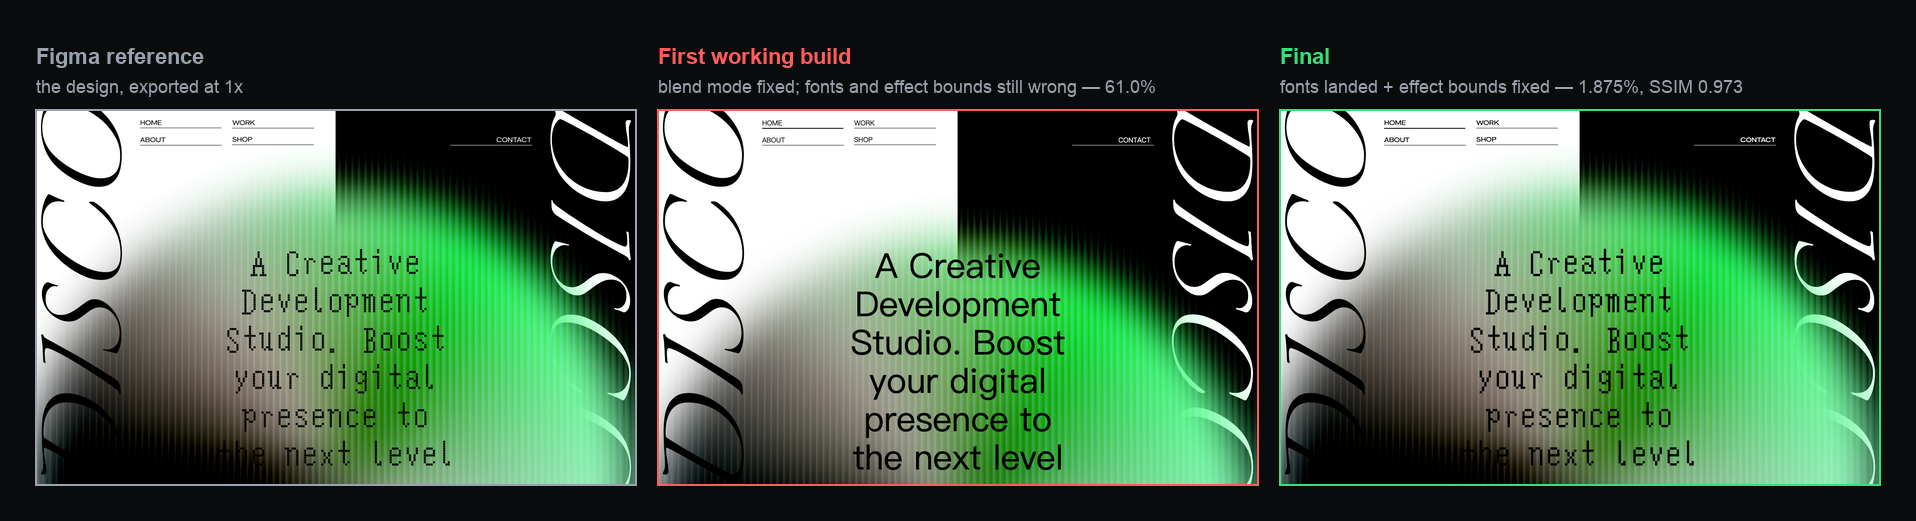
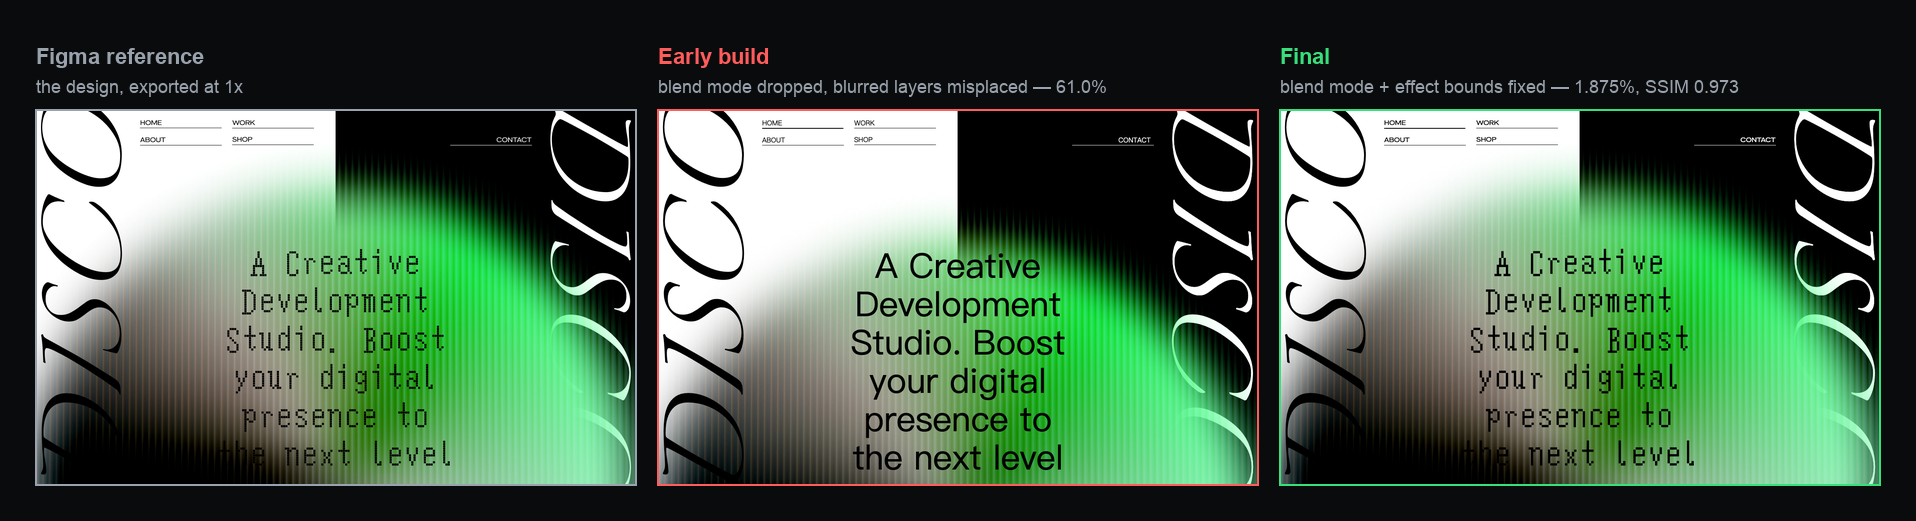
Rewrite README around the skill itself; drop the heatmap illustration
- lead with what the skill delivers, then how the pipeline and gates work
- compress the font matter into one contract line pointing at the reference
- remove docs/heatmap.png and its generator; relabel the comparison panels

Changed region(s): [[0.6467, 0.1536, 0.9238, 0.1843], [0.4003, 0.1536, 0.6159, 0.1843], [0.3387, 0.0921, 0.4619, 0.1228]]

diff --git a/docs/make_images.py b/docs/make_images.py
@@ -4,7 +4,6 @@
 Outputs into ./ (docs/):
   hero.png          — the finished 1440x900 render, framed
   comparison.png    — Figma reference vs 3 build rounds, labeled with real metrics
-  heatmap.png       — final residual heatmap + where the residual lives
   pipeline.png      — the Design Compiler pipeline with its hard gates
   gates.png         — A–G gate board for the sample artboard
 
@@ -95,24 +94,6 @@ def comparison(panels, out):
     return canvas.size
 
 
-def heatmap(src, out):
-    im = Image.open(src).convert("RGB")
-    w, h = im.size
-    pad, cap = 36, 96
-    canvas = Image.new("RGB", (w + pad * 2, h + pad * 2 + cap), BG)
-    d = ImageDraw.Draw(canvas)
-    canvas.paste(im, (pad, pad))
-    d.rectangle([pad - 1, pad - 1, pad + w, pad + h], outline=BORDER)
-    text(d, (pad, h + pad + 18), "Residual heatmap", 26, TEXT, bold=True)
-    text(d, (pad, h + pad + 50),
-         "1.875% of pixels differ by more than 20/255 — concentrated in sub-pixel stripe phase "
-         "and glyph antialiasing, not in structure.", 19, MUTED)
-    text(d, (pad, h + pad + 74), "No block-level displacement left after the effect-bounds fix.",
-         19, GREEN)
-    canvas.save(out)
-    return canvas.size
-
-
 def pipeline(out):
     stages = [
         ("extract", "live Figma → manifest + native PNG", BLUE),
@@ -192,12 +173,11 @@ def main():
     hero(root / "hero.png", HERE / "hero.png")
     comparison([
         (root / "ref.png", "Figma reference", "the design, exported at 1x", MUTED),
-        (root / "r2.png", "First working build",
-         "blend mode fixed; fonts and effect bounds still wrong — 61.0%", RED),
+        (root / "r2.png", "Early build",
+         "blend mode dropped, blurred layers misplaced — 61.0%", RED),
         (root / "r3.png", "Final",
-         "fonts landed + effect bounds fixed — 1.875%, SSIM 0.973", GREEN),
+         "blend mode + effect bounds fixed — 1.875%, SSIM 0.973", GREEN),
     ], HERE / "comparison.png")
-    heatmap(root / "heat.png", HERE / "heatmap.png")
     pipeline(HERE / "pipeline.png")
     gates([
         ("P0  data gate", "pass", "rootFills, per-run font sizes, render boxes, asset placement", GREEN),

diff --git a/README.md b/README.md
@@ -1,8 +1,8 @@
 # figma-native-html-reconstruction
 
-**A Skill that rebuilds Figma artboards as genuinely editable HTML — real DOM text, independent assets, fixed canvas coordinates, and a verification loop that refuses to call anything "close enough".**
+**A Skill that turns Figma artboards into genuinely editable HTML — real DOM text, independent assets, fixed canvas coordinates, and a verification loop that refuses to call anything "close enough".**
 
-**把 Figma 画板高保真重建为可编辑 HTML —— 真实 DOM 文字、独立非文字素材、固定画板坐标，配一套不肯用"看着差不多"蒙混过关的验收闭环。**
+**一个把 Figma 画板重建为可编辑 HTML 的 Skill：真实 DOM 文字、独立非文字素材、固定画板坐标，并配一套不肯用"看着差不多"蒙混过关的验收闭环。**
 
 ![status](https://img.shields.io/badge/skill-ready-38E07B?style=flat-square)
 ![figma](https://img.shields.io/badge/Figma-MCP%20%2F%20Figwright-6CAAFF?style=flat-square)
@@ -12,79 +12,71 @@
 
 ![Layout - 1 rebuilt as HTML](docs/hero.png)
 
----
+## What it does / 它做什么
 
-## Why this exists / 为什么做这个
+Point it at an artboard; get back a page you can actually maintain — text you can select and grep, layers you can inspect, numbers you can verify.
 
-Design-to-HTML tools usually give you one of two things: a picture of a page, or a page that only resembles the design at some other viewport. This Skill takes the third route — treat the artboard as **a coordinate system with layers, z-order and relationships**, then rebuild it as a fixed-size stage where every text node is a real, selectable, auditable DOM node.
+把 Skill 指向一个画板，得到的是一份真正能维护的页面：文字能选中、能搜索，图层能审，数字能被复核。
 
-设计稿转网页的工具通常只给两种结果：一张页面截图，或者一个"只在某个视口下看着像"的页面。这个 Skill 走第三条路——把画板当成**带图层、层级和关系的坐标系**，重建成固定尺寸的 stage，其中每个文字节点都是真实、可选中、可审计的 DOM。
-
-|  | Naive approach / 常见做法 | This Skill / 本 Skill |
+|  | Typical "design to code" output / 常见产出 | What this Skill delivers / 本 Skill 的产出 |
 |---|---|---|
-| Text | baked into the background image | real DOM text, per-run styles preserved |
-| Assets | one full-artboard screenshot | independent native exports, one per TEXT-free subtree |
-| Layout | responsive re-flow, "close enough" | fixed 1440×900 stage, absolute canvas coordinates |
-| Color | eyeballed | blend modes, fills, effects carried from the design data |
-| Fonts | falls back to a system font silently | **missing fonts get downloaded, verified and landed** |
-| Verdict | "looks right" | A–G machine-readable gates, `fail` / `unknown` ≠ `pass` |
+| Text | baked into the background image | real DOM nodes, per-run styles preserved |
+| Assets | one full-artboard screenshot | one native export per TEXT-free subtree |
+| Layout | responsive re-flow that "roughly matches" | fixed 1440×900 stage, absolute canvas coordinates |
+| Effects | eyeballed | blend modes, blurs, fills carried from design data |
+| Connectors | dropped or approximated | independent node SVGs, arrow tip measured |
+| Verdict | "looks close" | machine-readable A–G gates with three states |
 
-## Before / after / 修前修后
+## Three fixes, same code / 同一个页面，三次修因
 
 ![reference vs builds](docs/comparison.png)
 
-Left is the Figma export. Middle is the first build that actually rendered — the blend mode was dropped and two 124 px-blurred effects were placed by the wrong box, so the title fell back to a system font and the green gradient sat 124 px too low. Right is the same pipeline after three root-cause fixes.
+Left: the Figma export. Middle: an early build — the page rendered, but the composition was wrong. Right: the same pipeline after fixing root causes instead of nudging pixels. Each step was driven by a measured signal, not by staring at the screenshot.
 
-左图是 Figma 导出；中间是"能渲染但不正确"的第一版——混合模式丢失、两个带 124px 模糊的图层按错误盒放置，标题回退成系统字体、绿渐变整体下移 124px；右图是修完三处根因之后的同一套管线。
+左图 Figma 导出；中间是"能渲染但不对"的早期版本；右图是只修根因、不动像素之后的同一套管线产出。每一步都由可测量的信号驱动，不是对着截图挪元素。
 
-## The pipeline / 管线
+## How it works / 工作方式
 
 ![pipeline](docs/pipeline.png)
 
-`extract → normalize → plan → P0 data gate → build → verify → repair → re-verify`, all behind one command. Two rules make it trustworthy:
+One command runs the whole chain. Two design choices make the output trustworthy:
 
-- **The plan is the only source of layout.** `compile_design.py` turns the raw Figma export into `layout-plan.json` (with a `planHash`), and the HTML builder consumes nothing else. No agent ever nudges elements by looking at a screenshot.
-- **Nothing is built on missing data.** A P0 gate checks the manifest → IR → plan contract before a single line of HTML exists: root fills, per-run font sizes, render boxes, asset placement, effect-expanded bounds. It blocks the build instead of guessing.
+- **The plan is the only source of layout.** `compile_design.py` turns the raw Figma export into a deterministic `layout-plan.json` (with a content hash); the HTML builder consumes nothing else. No agent ever places an element by looking at a screenshot.
+- **Nothing builds on missing data.** Before any HTML is written, a data gate checks the contract: root fills, per-run font sizes, render boxes, asset placement, effect-expanded bounds. Missing or ambiguous data blocks the build instead of being silently defaulted.
 
-一条命令串起整条管线。两条原则让它可信：**plan 是唯一的排版依据**（Agent 从不对着截图挪元素）；**数据不全就不构建**（P0 数据门在生成 HTML 之前检查契约，宁可阻断也不猜）。
+一条命令跑完整条链。两个设计决定让结果可信：**plan 是唯一排版依据**（Agent 从不对着截图摆放元素）；**数据不全就不构建**（生成 HTML 之前先过数据门，缺失或含糊一律阻断，而不是悄悄用默认值填）。
 
-## Gates: pass, fail, unknown / 三门状态
+Under the hood the builder only emits `.layer` elements absolutely positioned inside a fixed `#stage`, carries each node's accumulated affine matrix, propagates effective clipping from ancestors, and preserves visible blend modes — which is what keeps composed effects looking like the design instead of like a flat export.
+
+底层上，构建器只输出固定 `#stage` 内绝对定位的 `.layer`，透传每个节点的累积仿射矩阵、沿祖先链传播有效裁剪、保留可见的混合模式——这是合成效果看起来仍是"设计"而不是"一张扁平导出"的原因。
+
+## Verification / 验收
 
 ![gate board](docs/gates.png)
 
-Every stage writes a machine-readable report into `evidence/`. A gate is `pass`, `fail`, or `unknown`, and **`unknown` is never a pass** — if the evidence wasn't collected, that is its own finding. Strict mode is the default: any `fail` or `unknown` exits non-zero and names the stage.
+Every stage writes a machine-readable report into `evidence/`. A gate is `pass`, `fail`, or `unknown` — and **`unknown` is never a pass**. If evidence wasn't collected, that is a finding of its own. Strict mode is the default: any `fail` or `unknown` exits non-zero and names the stage.
 
-每道门都把机读报告写进 `evidence/`；`unknown` 表示"证据没采到"，绝不等于通过。默认 strict：任一 `fail` / `unknown` 都非零退出并点名。
+每道门都把机读报告写进 `evidence/`；`unknown` 表示证据没采到，绝不等于通过。默认 strict：任一 `fail` / `unknown` 都非零退出并点名门。
 
-## The part people always get wrong: fonts / 最容易被糊弄过去的一环
+The gates cover content presence and coverage (B), relative geometry across every neighbour pair (C), real text line boxes and wrapping (D), arrow tips of connectors (E), canonical and overview visuals (F), and same-viewport pixel regression (G) — plus a data-contract gate before build (P0). The point is not the score, it's that any single local defect stays visible instead of being averaged away by a good global number.
 
-Missing fonts are **not** a disclosure item — they are a TODO. This Skill ships a font-sourcing procedure and a self-check script, because "I left an `@font-face` mount point, please supply the file yourself" is not a delivery.
+门覆盖内容可见性与覆盖（B）、全部相邻关系（C）、真实文字行盒与折行（D）、连接器箭头尖端（E）、canonical 与总览可见性（F）、同视口像素回归（G），以及构建前的数据契约门（P0）。重点不是分数，而是**任何一个局部缺陷都不会被好看的全局数字抹平**。
 
-- The requirement comes from **per-run** `fontName` (`fontName: 'mixed'` must be expanded — one line can use two families).
-- Scan the machine by name table (`nameID` 1 / 2 / 4 / 6), never by filename.
-- Search the web by exact **PostScript / filename** (`FZXS15--GB1-0.ttf`, `HKGroteskWide-Regular.otf`), then download from the site's **file link**, not its "download client" button.
-- Verify **before** landing: MD5 against the published value, name table, weight, `cmap` coverage.
-- Prove it loaded: `document.fonts.check()` plus `fontsVerified` / `fontsMissing` in the audit report — not just a `font-family` string.
+## Contracts / 硬约束
 
-缺字体是待办，不是可交付的结论。流程与自检脚本都随仓库提供：从 **per-run** 的 `fontName` 取真实需求（`mixed` 必须展开）、按 name 表扫本机、按确切文件名联网找、按 MD5 与 name 表校验后再落地、最后用 `document.fonts.check()` 证明它真的加载了。
+1. **Text stays text.** Nothing is baked into an image, ever.
+2. **Assets stay separate.** Native exports per TEXT-free subtree; never the whole artboard as the page.
+3. **The canvas stays fixed.** No responsive re-flow inside the artboard; scaling is display-only.
+4. **Never guess a color.** Unresolved image fills, unsupported fills and no-fill text are disclosed, not painted black or white.
+5. **Never fake a metric.** No shrinking type to kill overflow, no hiding layers, no rescaling the screenshot to match.
+6. **Missing fonts get resolved, not substituted.** The Skill ships a sourcing procedure and a self-check script (`references/font-sourcing.md`, `scripts/check_fonts.py`) so a real font is downloaded, verified and proven loaded — a `@font-face` stub is not a delivery.
+7. **One deterministic repair pass.** Text and connector failures get exactly one automatic fix attempt; if it still fails, it reports failure instead of scanning parameters in a loop.
 
-```bash
-python3 scripts/check_fonts.py \
-  --fonts-dir fonts --css fonts/fonts.css --html page.html \
-  --plan export/layout-plan.json --text-manifest export/text-manifest.json \
-  --glyphs "ABCabc0123"
-# exit 0 → every family+style is landed; exit 1 → go download it
-```
-
-Two silent failure modes are documented in the reference, because both were hit for real: a reuse path that skipped the build step (so the "re-verified" page was the old one, `@font-face` count 0), and a stale `layout-plan.json` that skipped recompilation (so an export fix never reached the plan).
-
-文档里还记了两个真实踩过的坑：复用导出目录时跳过 build，导致"复验"的是旧页面；以及 `layout-plan.json` 没删，导致改过的导出数据根本没进 plan。
-
-## Metrics from the included case / 附带的真实案例指标
+## Results from the included case / 附带案例的实测结果
 
 Same browser, same viewport, same reference, DPR 1, mismatch threshold 20/255.
 
-| Metric | First working build | Final |
+| Metric | Early build | Final |
 |---|---|---|
 | raw mismatch | 61.04% | **1.875%** |
 | outside-text mismatch | 56.53% | **0.0025%** |
@@ -92,35 +84,29 @@ Same browser, same viewport, same reference, DPR 1, mismatch threshold 20/255.
 | SSIM | 0.7962 | **0.9727** |
 | MAE per channel | 32.63 | **1.66** |
 
-![residual heatmap](docs/heatmap.png)
+Not claimed: rotated text boxes still produce one failing and five `unknown` relation edges, rotated vertical text keeps two contract-level overflows, and the overview gate stays `unknown` when there is no overview page. All three are printed in the delivery.
 
-What is left is sub-pixel stripe phase and glyph antialiasing — no block-level displacement, no missing content, no wrong colors. What is **not** claimed: the C gate still reports one `fail` and five `unknown` on rotated text boxes, the D gate keeps two rotated vertical boxes overflowing by contract, and F stays `unknown` because a single-artboard build has no overview page. All three are printed in the delivery instead of being averaged away.
-
-剩下的残差只是细条纹的亚像素相位与字形抗锯齿，没有整块错位、没有内容缺失。**没有**声称的部分同样写进交付：C 门在旋转文字盒上仍报 1 条 fail + 5 条 unknown，D 门保留两条旋转竖排盒的口径 overflow，F 门因为没有总览页而保持 `unknown`——不取平均蒙过去。
+未声称的部分同样写进交付：旋转文字盒仍会产生 1 条 fail + 5 条 unknown 的关系边，旋转竖排文字保留两条契约级 overflow，没有总览页时 F 门保持 `unknown`。
 
 ## Quick start / 快速开始
 
 ```bash
-# 1. install into your agent's skills root
-git clone https://github.com/xjjm123123123/figma-native-html-reconstruction.git
+git clone https://github.com/BANANACAT26/figma-native-html-reconstruction.git
 
-# 2. dependencies
 pip install pillow numpy scipy playwright fonttools
 playwright install chromium
 
-# 3. point the client at your Figwright / Figma MCP server
 export FIGWRIGHT_SERVER='node /path/to/@figwright/mcp/dist/index.mjs'
 export FIGWRIGHT_SESSION_ID='<figma-file-session>'
 export FIGWRIGHT_SKIP_TOOLS_LIST=1        # optional: skip capability discovery
 
-# 4. one command, live Figma → verified HTML
 python3 scripts/reconstruct.py \
   --node-id '<artboard-node-id>' --reference reference.png --workdir run-01
 ```
 
-The Skill itself is plain Markdown + Python: read [`SKILL.md`](SKILL.md) for the operating contract, then `references/` for the SOP, the Figwright conventions, geometry/connectors and the font-sourcing playbook.
+The Skill is plain Markdown plus Python — start with [`SKILL.md`](SKILL.md) for the operating contract, then dip into `references/` as the task needs.
 
-Skill 本体就是 Markdown + Python：先读 [`SKILL.md`](SKILL.md) 掌握交付边界，再按需进 `references/` 查 SOP、Figwright 约定、几何与连接器、以及字体获取手册。
+Skill 本体是 Markdown 加 Python：先读 [`SKILL.md`](SKILL.md) 掌握交付边界，再按需进 `references/`。
 
 ## Repository layout / 目录结构
 
@@ -133,7 +119,7 @@ references/
   connectors.md              connector verdicts: SVG true tip vs PNG bbox
   verification.md            how to verify without fooling yourself
   qa.md                      "metric improved but looks wrong" triage
-  font-sourcing.md           where fonts come from, what to reject, how to prove they loaded
+  font-sourcing.md           tracing, verifying and landing a missing font
   case-study.md              provenance and limits of the method
 scripts/
   reconstruct.py             one-command pipeline (strict by default)
@@ -142,34 +128,21 @@ scripts/
   data_gate.py               P0 contract gate, blocks the build
   build_fixed_html.py        plan → fixed-canvas HTML (blend modes, isolation, @font-face)
   check_fonts.py             font landing self-check (name table, weight, cmap, src resolution)
-  verify.py / capture.py / pixel_diff.py       capture, metrics, heatmap, hashes
+  verify.py / capture.py / pixel_diff.py       capture, metrics, overlay, hashes
   audit_*.py / repair_*.py   gates B–E and their one deterministic repair pass
 tests/                       regression suites (builder, gates, compiler)
 evals/                       fixtures for the scripts
-docs/                        README images + make_images.py (generates them from real renders)
+docs/                        README images + make_images.py (regenerates them from real renders)
 ```
 
-## Design contracts / 硬约束
+## Limits / 边界
 
-1. **Text stays text.** No text is baked into an image, ever.
-2. **Assets stay separate.** One native export per TEXT-free subtree; never the whole artboard.
-3. **The canvas stays fixed.** No responsive re-flow inside the artboard.
-4. **Never guess a color.** Missing image fills, unsupported fills and no-fill text are disclosed, not painted black.
-5. **Never fake a metric.** No shrinking font-size to kill overflow, no hiding layers, no scaling the screenshot to match.
-6. **Download before disclosing.** A missing font is a task, not an excuse.
-
-## Known limits / 已知边界
-
-- AUTO line-height without a calibration sidecar stays `line-height: normal` (unresolved, and reported as such).
-- Rotated vs unrotated box families produce `unknown` relation edges; that is a measurement-family gap, not a layout bug — and it stays visible in the report.
-- The method makes a rebuild locatable, auditable and reversible. It does **not** promise any Figma file lands under 1% mismatch: baked bitmap content, color management, antialiasing and live/reference version drift all set a floor.
+- AUTO line-height without a calibration sidecar stays `line-height: normal`, and says so.
+- Baked bitmap content, color management and antialiasing set a floor no DOM rebuild can remove.
+- The method makes a rebuild locatable, auditable and reversible. It does not promise any Figma file lands under 1% mismatch.
 
 ## License & credits / 许可与致谢
 
-Code and Skill text: MIT. The fonts used in the sample artboard are **not** shipped here — 方正像素15 is free for non-commercial use only (commercial use requires a license from Founder Type), and HK Grotesk is OFL. Font files stay with their owners; this repo only documents how to obtain and verify them.
+Code and Skill text: MIT. Fonts used in the sample artboard are not shipped here — the licensing note lives in [`references/font-sourcing.md`](references/font-sourcing.md).
 
-代码与 Skill 文本采用 MIT。示例画板用到的字体**不随仓库分发**——方正像素15 仅限非商业使用（商用需向方正取得授权），HK Grotesk 为 OFL 授权。字体文件归各权利人所有，本仓库只记录如何获取与校验。
-
----
-
-*If this saved you a week of "why is the text wrong", a star is cheap. / 如果它帮你省了几天"文字为什么不对"的排查，点个 star 不花钱。*
+代码与 Skill 文本采用 MIT；示例画板用到的字体不随仓库分发，授权口径见 [`references/font-sourcing.md`](references/font-sourcing.md)。
